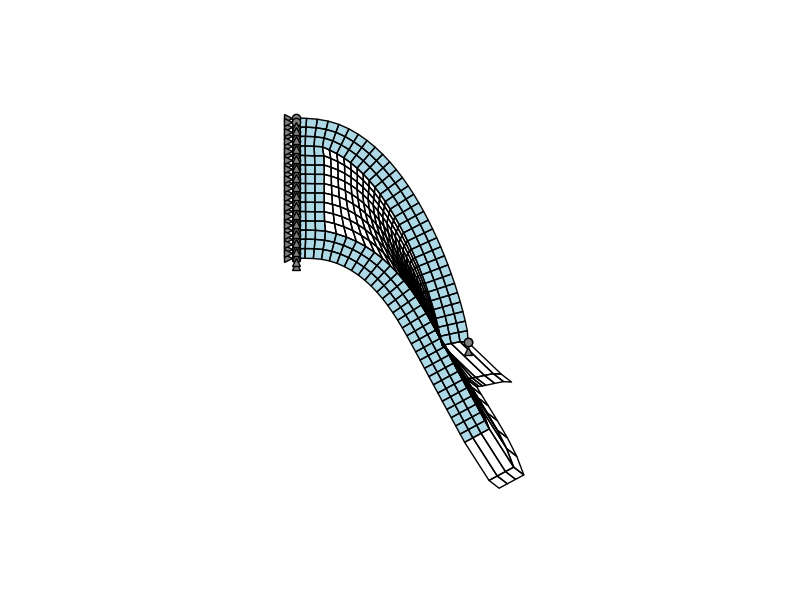
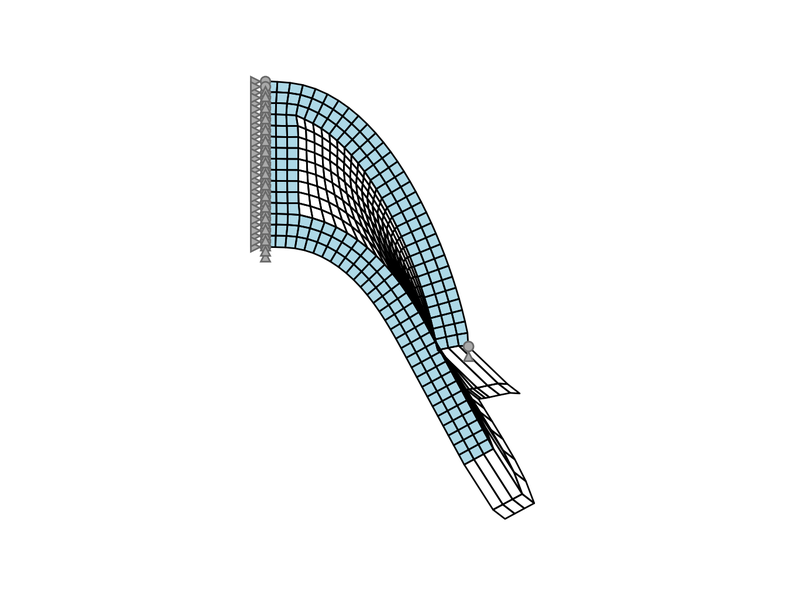
Style adjustment.

Changed region(s): [[0.3125, 0.12, 0.6875, 0.87]]

diff --git a/src/torchfem/truss.py b/src/torchfem/truss.py
@@ -119,8 +119,8 @@ class TrussGeometry(FEM):
                 scale as arrows with a dot at the tip instead of a marker. In
                 the deformed configuration, only the dot is drawn, marking the
                 position the node was pulled to.
-            default_color: Bar color, the foreground of the style if omitted. Nodes
-                and labels are gray.
+            default_color: Bar and node color, the foreground of the style if
+                omitted. Labels are gray.
             cmap: Matplotlib colormap or its name.
             title: Plot title.
             axes: If True, shows the coordinate axes.
@@ -144,6 +144,8 @@ class TrussGeometry(FEM):
         if isinstance(element_property, Tensor):
             element_property = {"element_property": element_property}
 
+        default_color = default_color or plt.rcParams["text.color"]
+
         # Line color from the first field (if present)
         if element_property:
             label, values = next(iter(element_property.items()))
@@ -156,11 +158,12 @@ class TrussGeometry(FEM):
             sm = plt.cm.ScalarMappable(cmap=cm, norm=Normalize(vmin=vmin, vmax=vmax))
             plt.colorbar(sm, ax=ax, shrink=0.5, label=label)
         else:
-            color = self.n_elem * [default_color or plt.rcParams["text.color"]]
+            color = self.n_elem * [default_color]
 
         # Nodes
         pos = self.nodes + u
-        dots2d(ax, pos, zorder=10)
+        # Above the dots of the boundary conditions, so every node looks alike
+        ax.scatter(pos[:, 0], pos[:, 1], color=default_color, marker="o", zorder=13)
         if node_labels:
             labels2d(ax, pos)
 

diff --git a/src/torchfem/planar.py b/src/torchfem/planar.py
@@ -99,7 +99,7 @@ class PlanarGeometry(FEM):
                 position the node was pulled to. A heat flux is drawn as a plus
                 or a minus, a convecting edge as tildes on its nodes, and a
                 prescribed temperature keeps its marker.
-            color: Element fill color. Edges are black, and node markers and labels
+            color: Element fill color. Edges and node markers are black and labels
                 gray, in every style.
             alpha: Opacity of nodal contour plots.
             cmap: Matplotlib colormap or its name.
@@ -213,7 +213,7 @@ class PlanarGeometry(FEM):
 
         # Nodes
         if node_markers:
-            dots2d(ax, pos, zorder=3)
+            ax.scatter(pos[:, 0], pos[:, 1], color="black", marker="o", zorder=3)
         if node_labels:
             labels2d(ax, pos)
 
